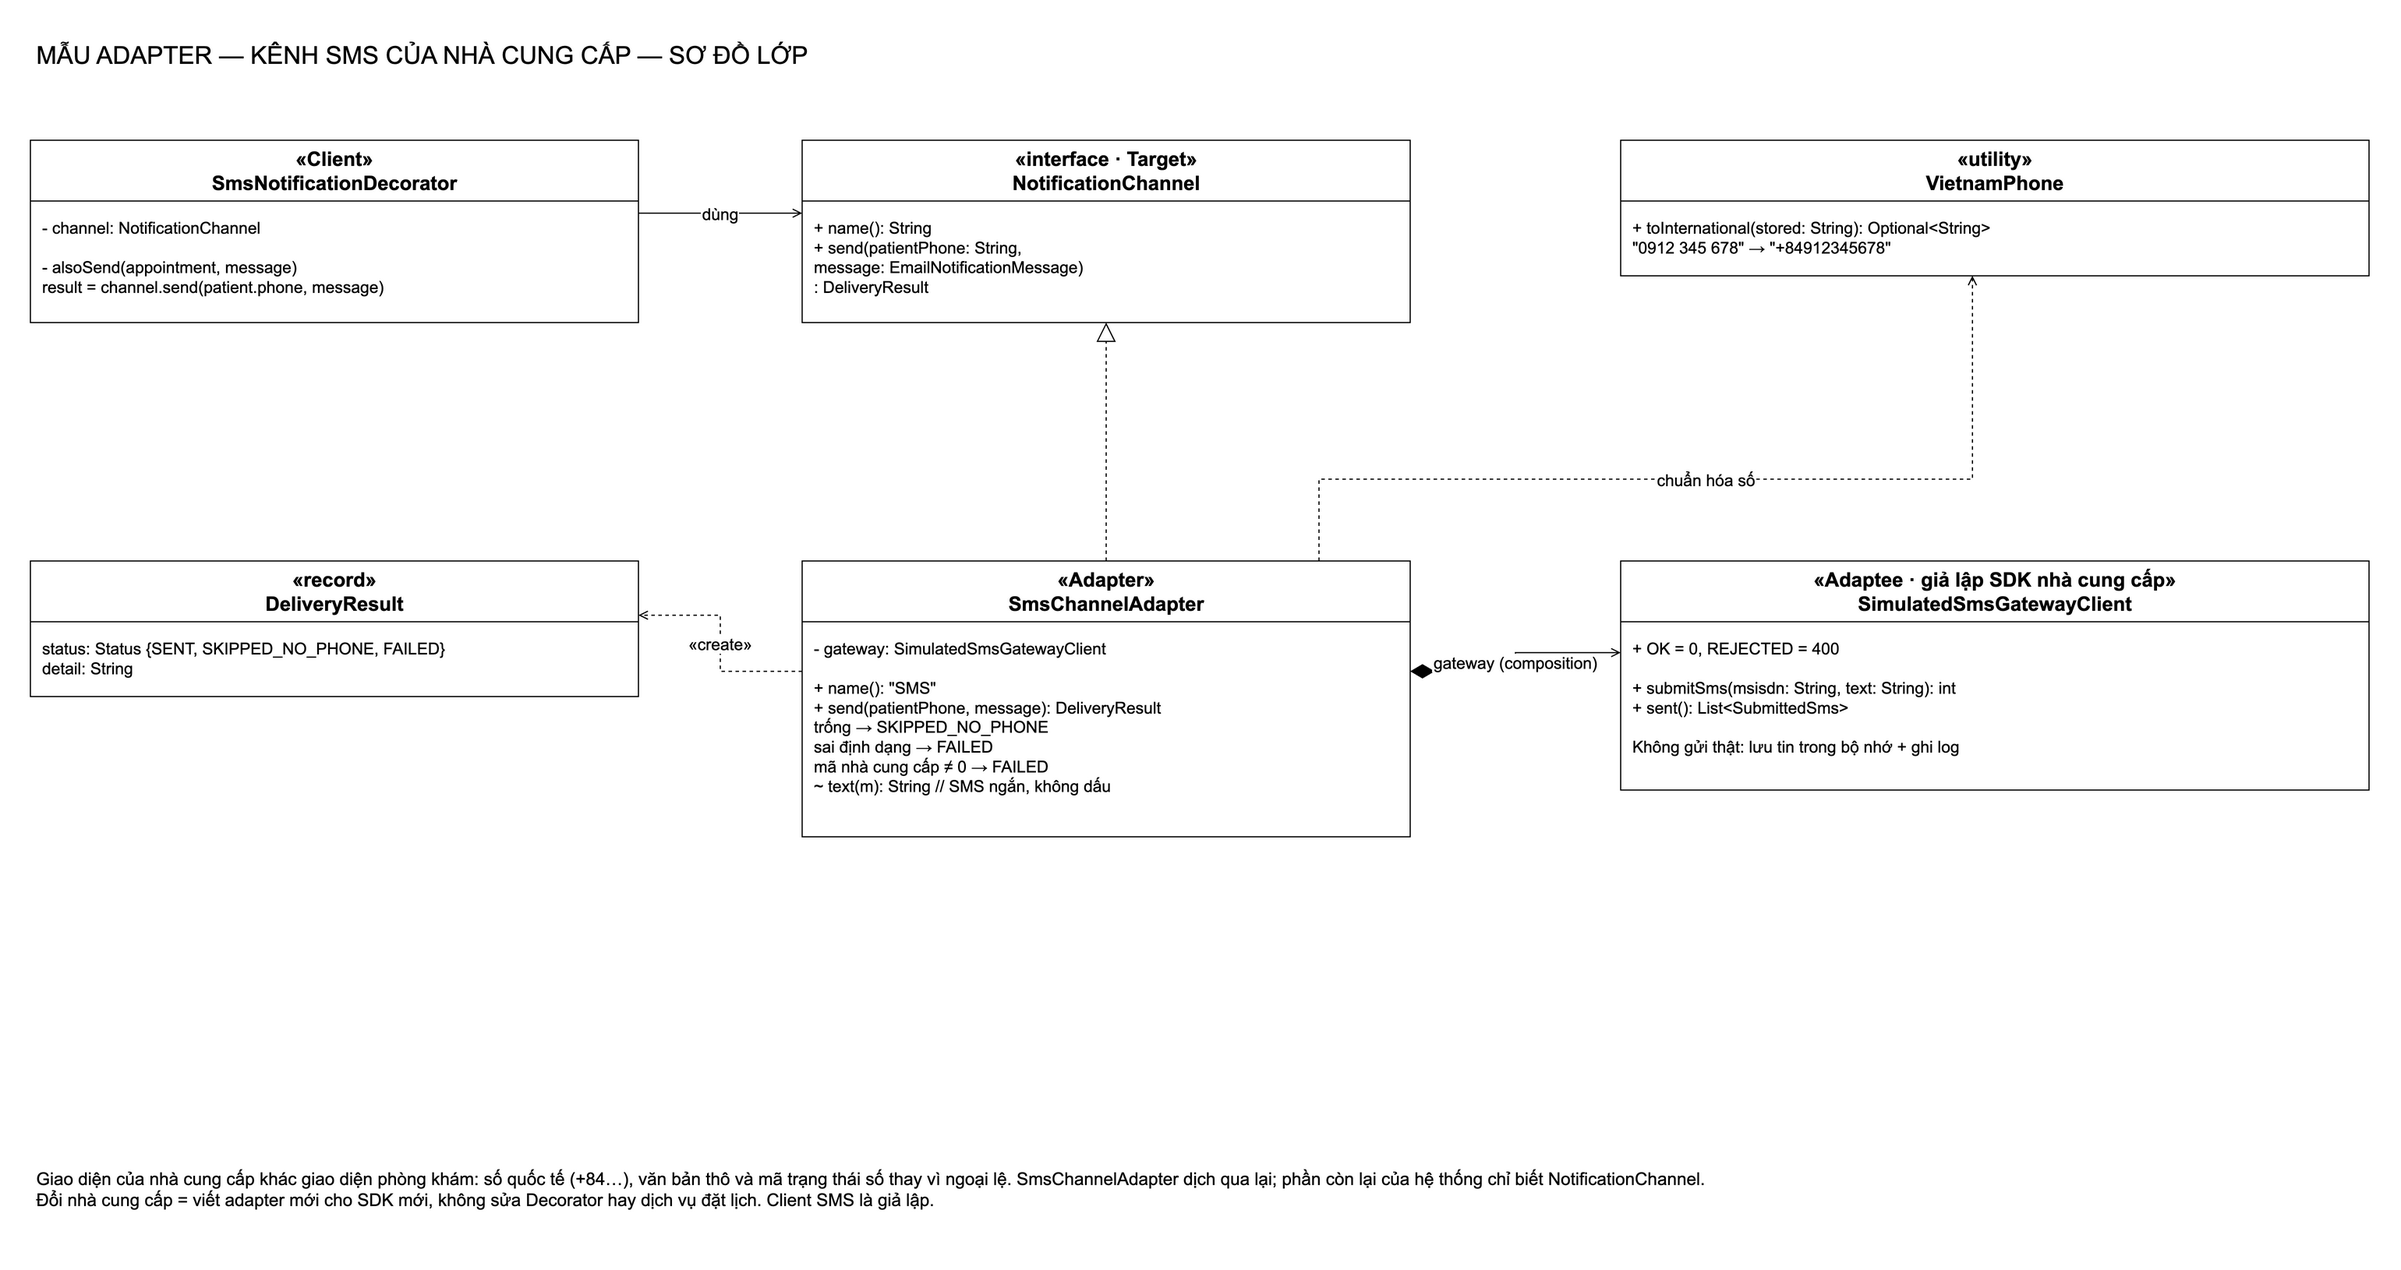
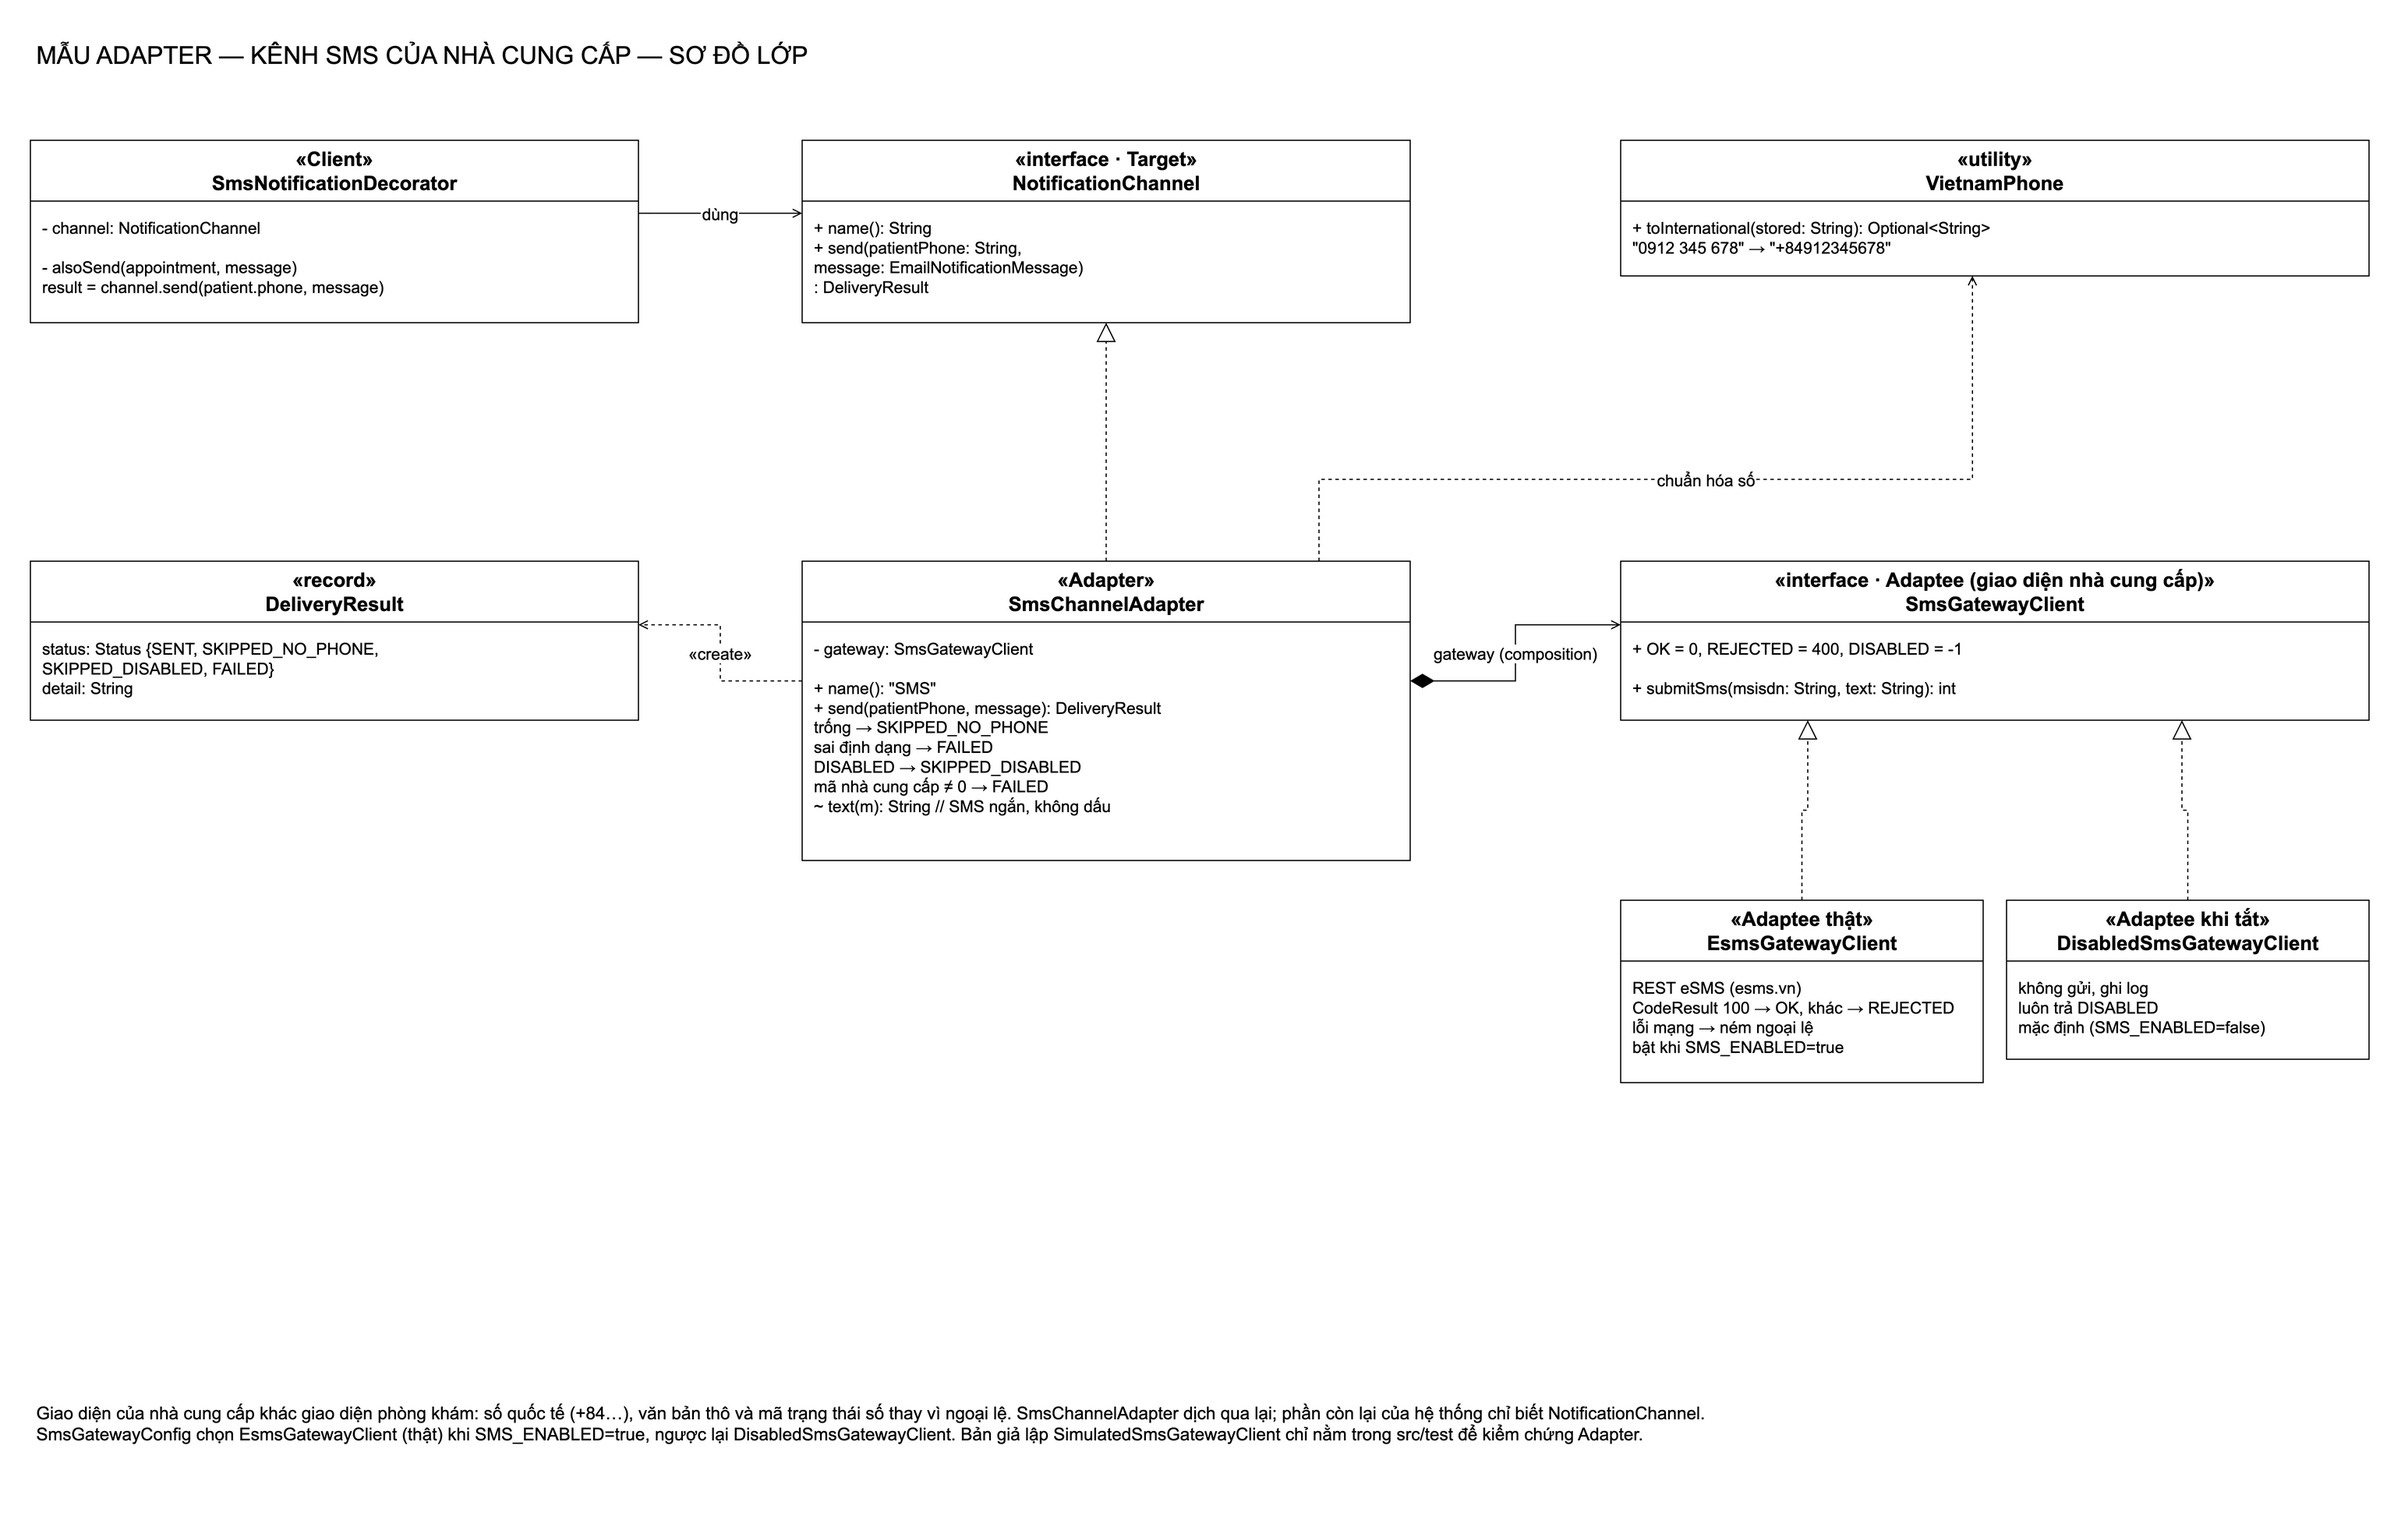
docs(adapter): diagrams and talk script follow the real eSMS adaptee

diff --git a/scripts/adapter/generate-diagrams.py b/scripts/adapter/generate-diagrams.py
@@ -10,7 +10,7 @@ OUT = REPO / 'docs/adapter/diagrams'
 
 
 def class_diagram():
-    d = Diagram('Adapter — Class', 2100, 1120, OUT)
+    d = Diagram('Adapter — Class', 2100, 1320, OUT)
     d.title('MẪU ADAPTER — KÊNH SMS CỦA NHÀ CUNG CẤP — SƠ ĐỒ LỚP', 2000)
     d.uml('client', '«Client»\nSmsNotificationDecorator', [
         '- channel: NotificationChannel', '', '- alsoSend(appointment, message)',
@@ -19,17 +19,22 @@ def class_diagram():
         '+ name(): String', '+ send(patientPhone: String,', '       message: EmailNotificationMessage)',
         '       : DeliveryResult'], 700, 110, 520)
     d.uml('adapter', '«Adapter»\nSmsChannelAdapter', [
-        '- gateway: SimulatedSmsGatewayClient', '', '+ name(): "SMS"',
+        '- gateway: SmsGatewayClient', '', '+ name(): "SMS"',
         '+ send(patientPhone, message): DeliveryResult', '  trống → SKIPPED_NO_PHONE',
-        '  sai định dạng → FAILED', '  mã nhà cung cấp ≠ 0 → FAILED', '~ text(m): String  // SMS ngắn, không dấu'],
+        '  sai định dạng → FAILED', '  DISABLED → SKIPPED_DISABLED', '  mã nhà cung cấp ≠ 0 → FAILED', '~ text(m): String  // SMS ngắn, không dấu'],
           700, 470, 520)
-    d.uml('adaptee', '«Adaptee · giả lập SDK nhà cung cấp»\nSimulatedSmsGatewayClient', [
-        '+ OK = 0, REJECTED = 400', '', '+ submitSms(msisdn: String, text: String): int',
-        '+ sent(): List<SubmittedSms>', '', 'Không gửi thật: lưu tin trong bộ nhớ + ghi log'], 1400, 470, 640)
+    d.uml('adaptee', '«interface · Adaptee (giao diện nhà cung cấp)»\nSmsGatewayClient', [
+        '+ OK = 0, REJECTED = 400, DISABLED = -1', '',
+        '+ submitSms(msisdn: String, text: String): int'], 1400, 470, 640)
+    d.uml('esms', '«Adaptee thật»\nEsmsGatewayClient', [
+        'REST eSMS (esms.vn)', 'CodeResult 100 → OK, khác → REJECTED', 'lỗi mạng → ném ngoại lệ',
+        'bật khi SMS_ENABLED=true'], 1400, 760, 310)
+    d.uml('disabled', '«Adaptee khi tắt»\nDisabledSmsGatewayClient', [
+        'không gửi, ghi log', 'luôn trả DISABLED', 'mặc định (SMS_ENABLED=false)'], 1730, 760, 310)
     d.uml('phone', '«utility»\nVietnamPhone', [
         '+ toInternational(stored: String): Optional<String>', '  "0912 345 678" → "+84912345678"'], 1400, 110, 640)
     d.uml('result', '«record»\nDeliveryResult', [
-        'status: Status {SENT, SKIPPED_NO_PHONE, FAILED}', 'detail: String'], 40, 470, 520)
+        'status: Status {SENT, SKIPPED_NO_PHONE,', '  SKIPPED_DISABLED, FAILED}', 'detail: String'], 40, 470, 520)
     d.edge('client', 'target', 'dùng', 'exitX=1;exitY=0.4;entryX=0;entryY=0.4;')
     d.edge('adapter', 'target', '', IMPLEMENTS + 'exitX=0.5;exitY=0;entryX=0.5;entryY=1;')
     d.edge('adapter', 'adaptee', 'gateway (composition)', AGGREGATES.replace('startFill=0', 'startFill=1')
@@ -37,17 +42,20 @@ def class_diagram():
     d.edge('adapter', 'phone', 'chuẩn hóa số', DEPENDS + 'exitX=0.85;exitY=0;entryX=0.47;entryY=1;',
            [(1142, 400), (1700, 400)])
     d.edge('adapter', 'result', '«create»', DEPENDS + 'exitX=0;exitY=0.4;entryX=1;entryY=0.4;')
+    d.edge('esms', 'adaptee', '', IMPLEMENTS + 'exitX=0.5;exitY=0;entryX=0.25;entryY=1;')
+    d.edge('disabled', 'adaptee', '', IMPLEMENTS + 'exitX=0.5;exitY=0;entryX=0.75;entryY=1;')
     d.text('note', 'Giao diện của nhà cung cấp khác giao diện phòng khám: số quốc tế (+84…), văn bản thô và mã trạng thái '
            'số thay vì ngoại lệ. SmsChannelAdapter dịch qua lại; phần còn lại của hệ thống chỉ biết NotificationChannel.\n'
-           'Đổi nhà cung cấp = viết adapter mới cho SDK mới, không sửa Decorator hay dịch vụ đặt lịch. Client SMS là giả lập.',
-           40, 980, 2000, 70, 15)
+           'SmsGatewayConfig chọn EsmsGatewayClient (thật) khi SMS_ENABLED=true, ngược lại DisabledSmsGatewayClient. '
+           'Bản giả lập SimulatedSmsGatewayClient chỉ nằm trong src/test để kiểm chứng Adapter.',
+           40, 1180, 2000, 80, 15)
     d.save('adapter-class.drawio')
 
 
 def sequence():
     s = Sequence('Adapter — Sequence: gửi SMS qua adapter', [
         'SmsNotification\nDecorator «Client»', 'SmsChannelAdapter\n«Adapter»', 'VietnamPhone',
-        'SimulatedSmsGateway\nClient «Adaptee»'], OUT, col=380)
+        'SmsGatewayClient\n«Adaptee»'], OUT, col=380)
     s.call(0, 1, 'send("0912 345 678", message)')
     s.begin('alt [số điện thoại null / rỗng]')
     s.reply(1, 0, 'DeliveryResult(SKIPPED_NO_PHONE) — không gọi nhà cung cấp')
@@ -59,8 +67,8 @@ def sequence():
     s.end()
     s.step(1, 'text(message) → "Da dat lich kham BK-…:\n2026-11-12 09:00-09:30, BS …"', 360, 56)
     s.call(1, 3, 'submitSms("+84912345678", text)')
-    s.reply(3, 1, 'int code (0 = OK, 400 = REJECTED)')
-    s.reply(1, 0, 'code = 0 → DeliveryResult(SENT, msisdn) · khác 0 → FAILED')
+    s.reply(3, 1, 'int code (0 = OK, 400 = REJECTED, -1 = DISABLED)')
+    s.reply(1, 0, '0 → SENT · -1 → SKIPPED_DISABLED · khác → FAILED')
     s.footer('Nhà cung cấp ném ngoại lệ (timeout…) → Decorator bắt và ghi FAILED (xem Decorator). Adapter không biết gì về '
              'lịch sử thông báo.')
     s.save('adapter-sequence.drawio')
@@ -77,7 +85,7 @@ def erd():
                                              ('FK', 'patient_id', 'BIGINT'), ('', '…', '')], 720, 450, 480)
     d.table('log', 'notification_log  «new» (Decorator ghi)', [
         ('PK', 'id', 'BIGINT'), ('', 'type', 'VARCHAR(40)'), ('', 'booking_code', 'VARCHAR(50)'),
-        ('', 'channel', "VARCHAR(10)  = 'SMS'"), ('', 'status', 'SENT | SKIPPED_NO_PHONE | FAILED'),
+        ('', 'channel', "VARCHAR(10)  = 'SMS'"), ('', 'status', 'SENT | SKIPPED_NO_PHONE | SKIPPED_DISABLED | FAILED'),
         ('', 'note', 'VARCHAR(255) ← DeliveryResult.detail'), ('', 'created_at', 'DATETIME(6)')], 1340, 140, 600, new=True)
     d.rel('patients', 'users', 'user_id (1–1)', 'ERzeroToOne', 'ERmandOne', 'exitX=0.5;exitY=0;entryX=0.5;entryY=1;')
     d.rel('appointments', 'patients', 'patient_id', 'ERzeroToMany', 'ERmandOne', 'exitX=0;exitY=0.5;entryX=1;entryY=0.5;')
@@ -94,7 +102,7 @@ def dfd():
     d = Diagram('Adapter — DFD', 2100, 880, OUT)
     d.title('MẪU ADAPTER — DFD MỨC 1: TỪ BẢN TIN ĐẾN NHÀ CUNG CẤP SMS', 2000)
     d.box('dec', 'Decorator SMS\n(chuỗi thông báo)', 40, 320, 250, 130, EXTERNAL)
-    d.box('vendor', 'Nhà cung cấp SMS\n(giả lập) → Bệnh nhân', 1780, 320, 280, 130, EXTERNAL)
+    d.box('vendor', 'Nhà cung cấp SMS\n(eSMS) → Bệnh nhân', 1780, 320, 280, 130, EXTERNAL)
     d.box('p1', '1.0\nKiểm tra &\nchuẩn hóa số', 420, 290, 230, 190, PROCESS)
     d.box('p2', '2.0\nSoạn nội dung\nSMS', 850, 290, 230, 190, PROCESS)
     d.box('p3', '3.0\nGửi & dịch\nmã trạng thái', 1290, 290, 230, 190, PROCESS)
@@ -106,7 +114,7 @@ def dfd():
     d.edge('p1', 'p2', '+84xxxxxxxxx\n+ bản tin', 'exitX=1;exitY=0.5;entryX=0;entryY=0.5;')
     d.edge('p2', 'p3', 'msisdn + text', 'exitX=1;exitY=0.5;entryX=0;entryY=0.5;')
     d.edge('p3', 'vendor', 'submitSms(msisdn, text)', 'exitX=1;exitY=0.35;entryX=0;entryY=0.35;')
-    d.edge('vendor', 'p3', 'mã 0 / 400', 'exitX=0;exitY=0.7;entryX=1;entryY=0.7;')
+    d.edge('vendor', 'p3', 'mã 0 / 400 (tắt: -1)', 'exitX=0;exitY=0.7;entryX=1;entryY=0.7;')
     d.edge('p3', 'dec', 'DeliveryResult (SENT / FAILED)', 'exitX=0.5;exitY=0;entryX=0.15;entryY=0;',
            [(1405, 160), (78, 160)])
     d.text('note', 'Yourdon/DeMarco. Adapter không ghi kho nào; Decorator SMS nhận DeliveryResult và ghi notification_log.',

diff --git a/docs/adapter/kich-ban-thuyet-trinh.md b/docs/adapter/kich-ban-thuyet-trinh.md
@@ -5,12 +5,12 @@
 | Phút | Nói | Cho xem |
 |---|---|---|
 | 0:00–0:40 | "Adapter thuộc nhóm cấu trúc: làm hai giao diện không khớp làm việc được với nhau mà không sửa bên nào. Giống củ sạc du lịch." | Bảng thành phần |
-| 0:40–1:40 | "Phòng khám muốn gửi thêm SMS. SDK nhà cung cấp nhận số quốc tế, văn bản thô và trả mã số. Phòng khám lưu số kiểu 0912 345 678 và làm việc với bản tin. Gọi thẳng SDK thì các chi tiết đó lan vào nghiệp vụ. Ở đây SDK là giả lập, chỉ lưu tin trong bộ nhớ." | Mục 2 README |
-| 1:40–2:40 | "Target là `NotificationChannel` của phòng khám. Adaptee là `SimulatedSmsGatewayClient`. `SmsChannelAdapter` giữ client bên trong, đổi số sang +84, soạn SMS ngắn và dịch mã 0/400 thành SENT/FAILED." | Sơ đồ class |
+| 0:40–1:40 | "Phòng khám muốn gửi thêm SMS. SDK nhà cung cấp nhận số quốc tế, văn bản thô và trả mã số. Phòng khám lưu số kiểu 0912 345 678 và làm việc với bản tin. Gọi thẳng SDK thì các chi tiết đó lan vào nghiệp vụ. Ở đây nhà cung cấp thật là eSMS (REST); khi demo thì SMS tắt bằng cờ `SMS_ENABLED=false`." | Mục 2 README |
+| 1:40–2:40 | "Target là `NotificationChannel` của phòng khám. Adaptee là giao diện nhà cung cấp `SmsGatewayClient`, bản thật `EsmsGatewayClient`, bản khi tắt `DisabledSmsGatewayClient`. `SmsChannelAdapter` giữ client bên trong, đổi số sang +84, soạn SMS ngắn và dịch mã 0/400/-1 thành SENT/FAILED/SKIPPED_DISABLED." | Sơ đồ class |
 | 2:40–3:30 | "Luồng: không có số thì bỏ qua; số sai thì FAILED và không gọi nhà cung cấp; hợp lệ thì gọi `submitSms` rồi dịch kết quả." | Sơ đồ sequence, hai khung `alt` |
 | 3:30–4:10 | "Adapter chỉ đọc số điện thoại của bệnh nhân; kết quả được Decorator ghi vào `notification_log`. DFD: chuẩn hóa số → soạn nội dung → gửi và dịch mã." | ERD, DFD |
 | 4:10–4:40 | "Test qua bean: nhà cung cấp nhận đúng +84 và nội dung có mã lịch hẹn; số rỗng hoặc sai thì không gọi nhà cung cấp. Thêm 13 test cho các dạng số." | Chạy `SmsChannelAdapterTests`, `VietnamPhoneTests` |
-| 4:40–5:00 | "Hạn chế: chưa có nhà cung cấp thật, chưa retry. Đổi nhà cung cấp chỉ cần viết một adapter mới." | Mục Hạn chế |
+| 4:40–5:00 | "Hạn chế: client eSMS chưa retry và chưa thử bằng tài khoản thật (có chế độ sandbox). Bản giả lập chỉ còn trong test. Đổi nhà cung cấp chỉ cần viết một client mới." | Mục Hạn chế |
 
 ## Câu hỏi có thể gặp
 
